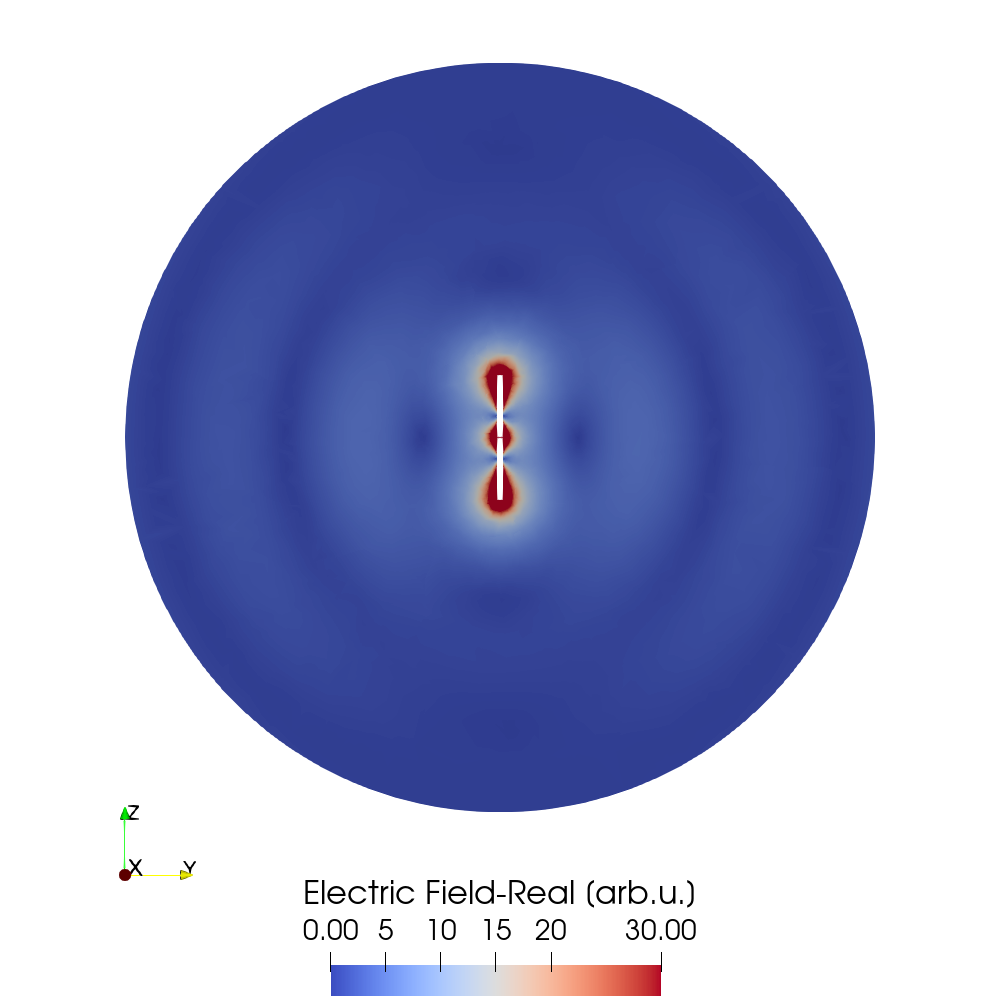
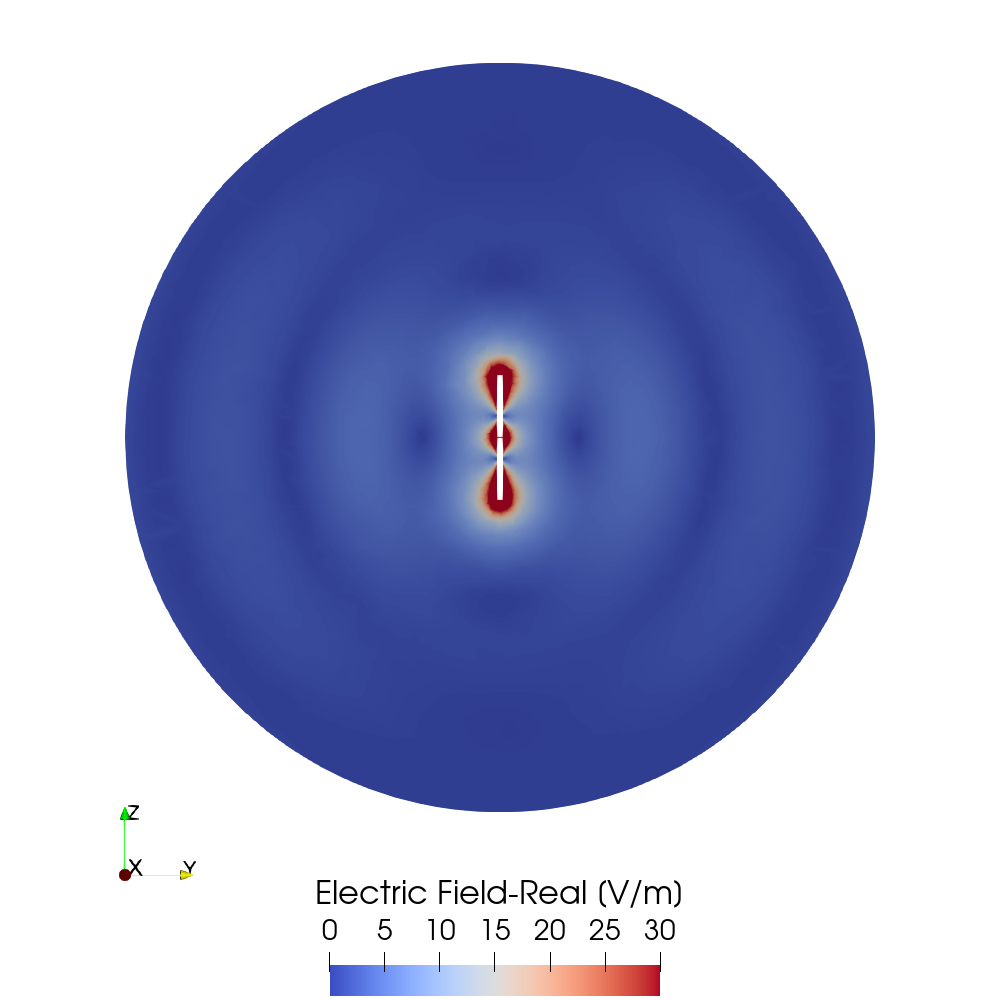
Minor correction

Changed region(s): [[0.31, 0.868, 0.713, 0.961]]

diff --git a/Electromagnetics/Stutzman_2012_Dipole_Antenna/paraview_electric_field.py b/Electromagnetics/Stutzman_2012_Dipole_Antenna/paraview_electric_field.py
@@ -45,7 +45,7 @@ ctf.ApplyPreset("Cool to Warm")
 
 scalar_bar = pvs.GetScalarBar(ctf)
 
-scalar_bar.Title = f"{field_name} [arb.u.]"
+scalar_bar.Title = f"{field_name} [V/m]"
 scalar_bar.ComponentTitle = ""
 
 scalar_bar.Orientation = "Horizontal"
@@ -55,7 +55,7 @@ scalar_bar.LabelColor = (0, 0, 0)
 scalar_bar.TitleFontSize = 32
 scalar_bar.LabelFontSize = 28
 scalar_bar.ScalarBarThickness = 32
-scalar_bar.RangeLabelFormat = "%.2f"
+scalar_bar.RangeLabelFormat = "%.0f"
 scalar_bar.LabelFormat = "%.0f"
 
 scalar_bar.LookupTable.RescaleTransferFunction(0, 30)
